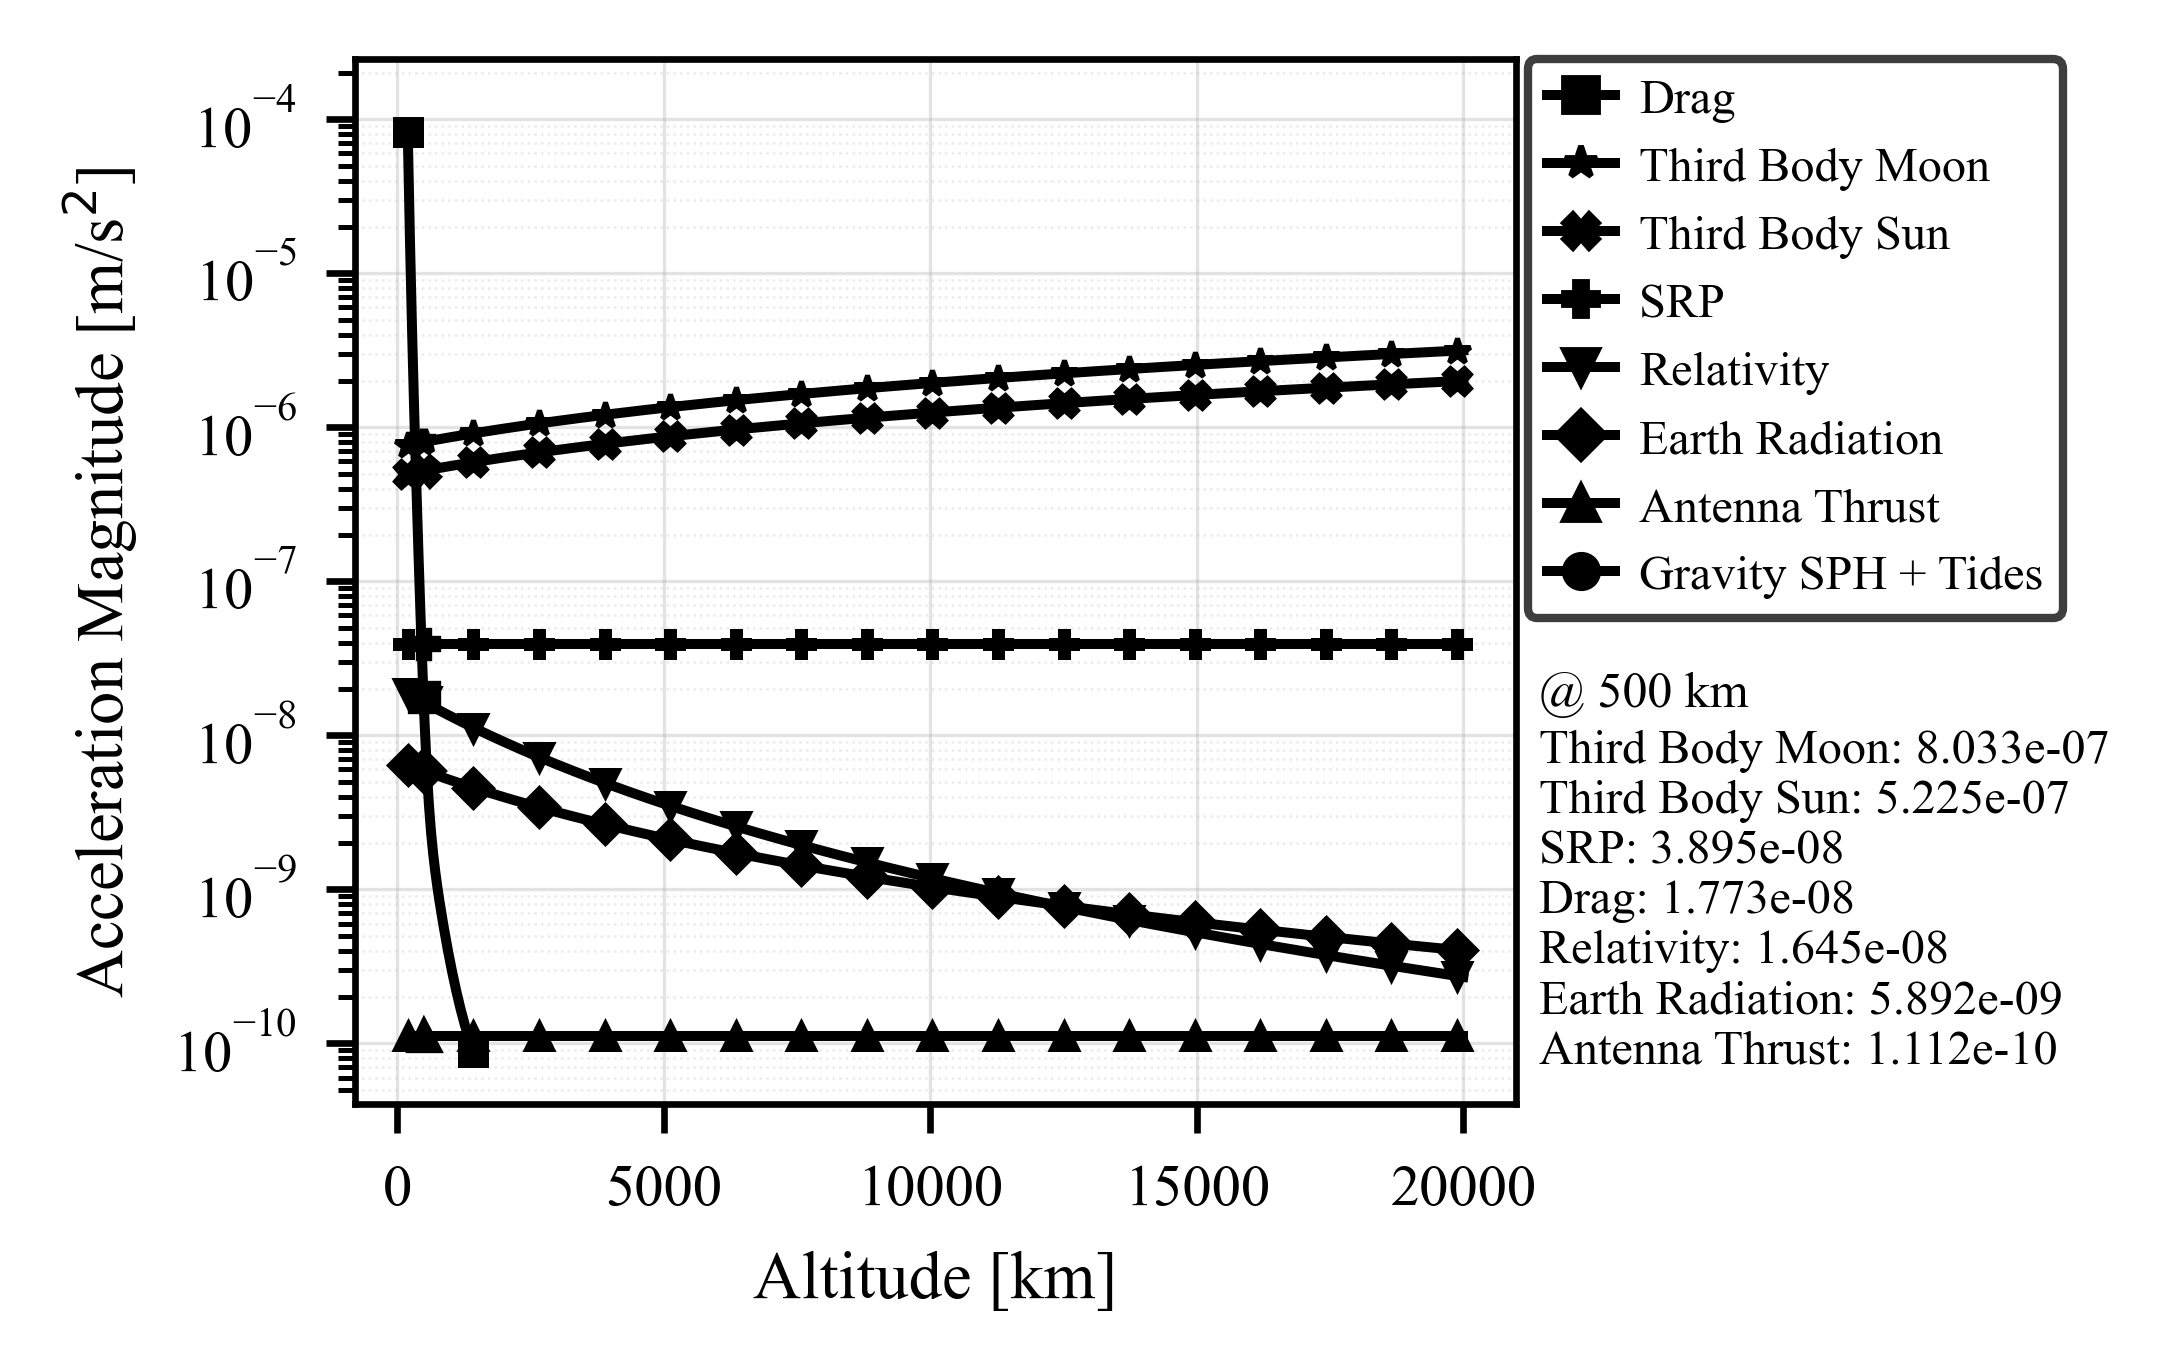
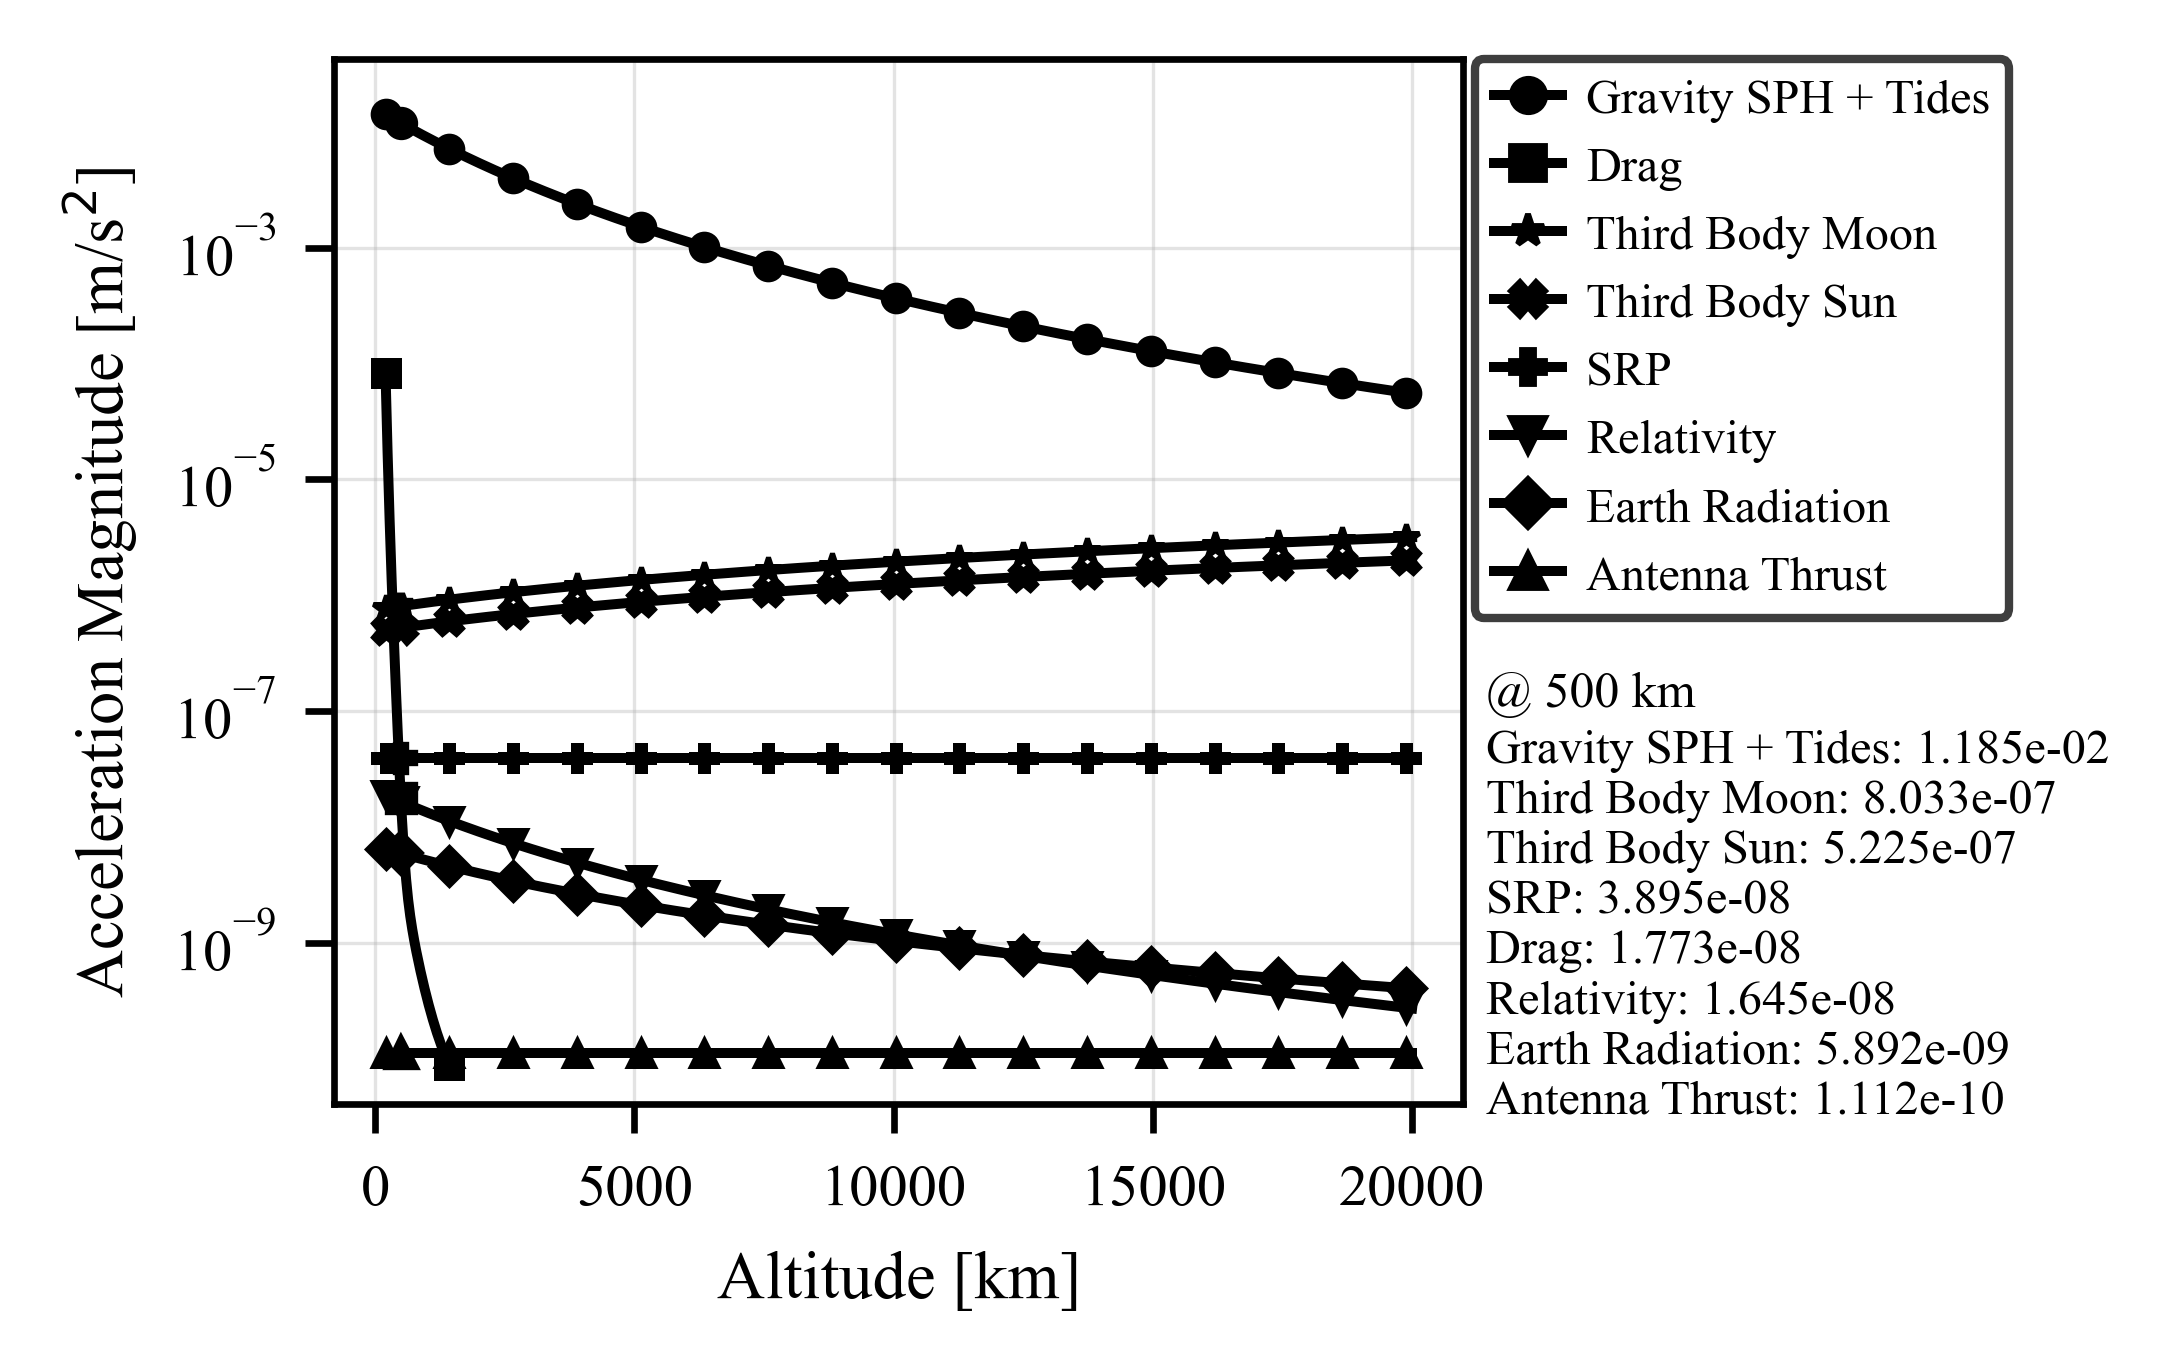
profile: keep gravity terms available without EOP/CIP and refresh plot

diff --git a/apps/forces-cli/perturbation_profile_cli.cpp b/apps/forces-cli/perturbation_profile_cli.cpp
@@ -139,6 +139,21 @@ int main(int argc, char** argv) {
   }
   std::unique_ptr<astroforces::forces::GravitySphAccelerationModel> gravity{};
   if (!gravity_gfc_file.empty()) {
+    const bool has_ephem = !eph_file.empty();
+    const bool has_eop = !eop_finals_file.empty();
+    const bool has_cip = !cip_xys_file.empty();
+    const bool has_eop_cip = has_eop && has_cip;
+    const bool enable_lunisolar_tides = has_ephem && has_eop_cip;
+    const bool enable_tide2 = has_eop_cip;
+    const bool enable_pole_tides = has_eop_cip;
+    const bool enable_ocean_tide = has_eop_cip && !ocean_tide_file.empty();
+    const bool enable_atmos_tide = has_eop_cip && !atmos_tide_file.empty();
+    const bool enable_aod = has_eop_cip && !aod_file.empty();
+    if (has_ephem && !has_eop_cip) {
+      spdlog::warn(
+          "gravity profile: ephemeris provided but EOP/CIP missing; disabling Sun/Moon "
+          "and tide terms that require EOP/CIP");
+    }
     gravity = astroforces::forces::GravitySphAccelerationModel::Create(
         {.gravity_model_file = gravity_gfc_file,
          .ephemeris_file = std::filesystem::path(eph_file),
@@ -151,15 +166,15 @@ int main(int argc, char** argv) {
          .max_degree = gravity_max_degree,
          .use_central = true,
          .use_sph = true,
-         .use_solid_earth_tides = true,
-         .use_sun_tide = !eph_file.empty(),
-         .use_moon_tide = !eph_file.empty(),
-         .use_solid_earth_tide2 = true,
-         .use_pole_tide_solid = !eop_finals_file.empty(),
-         .use_pole_tide_ocean = !eop_finals_file.empty(),
-         .use_ocean_tide = !ocean_tide_file.empty(),
-         .use_atmos_tide = !atmos_tide_file.empty(),
-         .use_aod = !aod_file.empty()});
+         .use_solid_earth_tides = enable_lunisolar_tides || enable_tide2,
+         .use_sun_tide = enable_lunisolar_tides,
+         .use_moon_tide = enable_lunisolar_tides,
+         .use_solid_earth_tide2 = enable_tide2,
+         .use_pole_tide_solid = enable_pole_tides,
+         .use_pole_tide_ocean = enable_pole_tides,
+         .use_ocean_tide = enable_ocean_tide,
+         .use_atmos_tide = enable_atmos_tide,
+         .use_aod = enable_aod});
   }
 
   struct ComponentModel {
@@ -266,7 +281,7 @@ int main(int argc, char** argv) {
 
     std::vector<double> gravity_mags{};
     if (gravity) {
-      gravity_mags.reserve(10);
+      gravity_mags.assign(10, std::numeric_limits<double>::quiet_NaN());
     }
     std::vector<double> comp_mags{};
     comp_mags.reserve(components.size());
@@ -284,16 +299,16 @@ int main(int argc, char** argv) {
       const double g_aod = magnitude(g.aod_mps2);
       const double g_to = magnitude(g.ocean_tide_mps2);
       const double g_ta = magnitude(g.atmos_tide_mps2);
-      gravity_mags.push_back(g_c);
-      gravity_mags.push_back(g_sph);
-      gravity_mags.push_back(g_tss);
-      gravity_mags.push_back(g_tsm);
-      gravity_mags.push_back(g_tsf);
-      gravity_mags.push_back(g_tps);
-      gravity_mags.push_back(g_tpo);
-      gravity_mags.push_back(g_aod);
-      gravity_mags.push_back(g_to);
-      gravity_mags.push_back(g_ta);
+      gravity_mags[0] = g_c;
+      gravity_mags[1] = g_sph;
+      gravity_mags[2] = g_tss;
+      gravity_mags[3] = g_tsm;
+      gravity_mags[4] = g_tsf;
+      gravity_mags[5] = g_tps;
+      gravity_mags[6] = g_tpo;
+      gravity_mags[7] = g_aod;
+      gravity_mags[8] = g_to;
+      gravity_mags[9] = g_ta;
       rss_sum += g_c * g_c + g_sph * g_sph + g_tss * g_tss + g_tsm * g_tsm + g_tsf * g_tsf + g_tps * g_tps + g_tpo * g_tpo
                  + g_aod * g_aod + g_to * g_to + g_ta * g_ta;
       if (status == astroforces::core::Status::Ok && g.status != astroforces::core::Status::Ok) {
